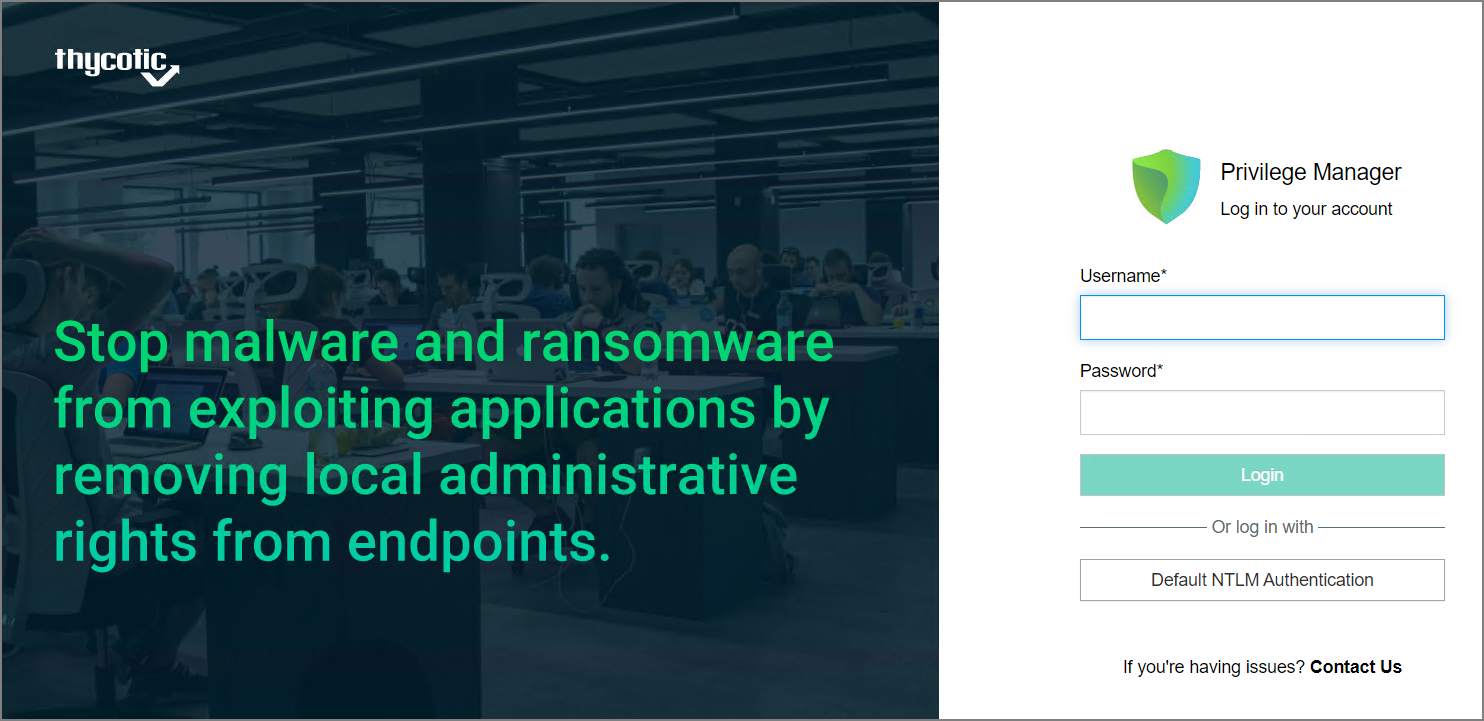
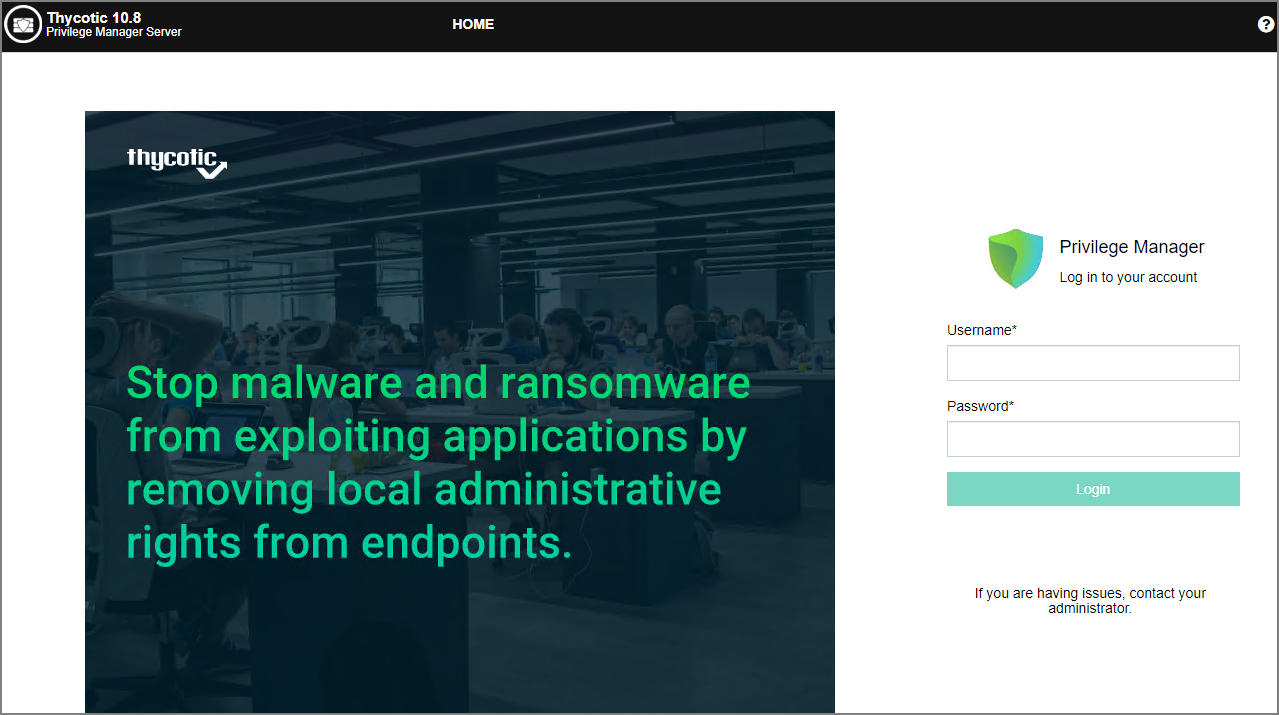
update based on latest UI

diff --git a/ui/config/authentication/index.md b/ui/config/authentication/index.md
@@ -3,9 +3,8 @@
 [priority]: # (1)
 # Authentication Tab
 
-The Authentication tab is used for setting up the Authentication Provider used with Privilege Manager. Different authentication providers can be setup based on configured Foreign Systems. Each configured authentication provided will be available as a login choice to users on the login page.
+The Authentication tab is used for setting up the Authentication Provider used with Privilege Manager. Different authentication providers can be setup based on configured Foreign Systems. The user logs in based on the active authentication provider. Only one authentication provider can be active at any given time.
 
-<!-- TODO: new screen capture once the UI work for this page is done.-->
 ![auth tab](images/config-auth.png "Authentication tab to select the authentication provider")
 
 >**Note**:

diff --git a/getting-started/login.md b/getting-started/login.md
@@ -12,9 +12,9 @@ The login URL for an on-premises Privilege Manager instance has this form:
 >**Note**:
 >On combined Secret Server/Privilege Manager installations you are initially logged in through Secret Server. If this is the case, you can find Privilege Manager by navigating to __Tools | Privilege Manager__.
 
-![Login](images/new-login.png "Privilege Manager login page")
+Once you create users or setup an authentication provider, the Privilege Manager login screen will provide the login option based on that configured provider.
 
-Depending on the authentication provider setup, users are presented with different login choices.
+![Login](images/new-login.png "Privilege Manager login page")
 
 After the authentication the Privilege Manager Server Setup Home page opens.
 

diff --git a/getting-started/cloud/cloud-init.md b/getting-started/cloud/cloud-init.md
@@ -9,6 +9,12 @@ To login to a Privilege Manager Cloud instance, use the URL and credentials prov
 
 1. Navigate to your assigned login URL.
 
+   For new instances, the initial login to Privilege Manager happens via the Thycotic One Authentication portal.
+
+   ![T1 option](images/t1-login.png "Privilege Manager login page with Thycotic One login option")
+
+   Once you create users or setup an authentication provider, the Privilege Manager login screen will provide the login option based on that configured provider.
+
    ![Login](../images/new-login.png "Privilege Manager login page")
 
    Depending on the authentication provider setup, users are presented with different login choices.
